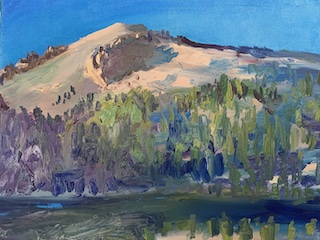
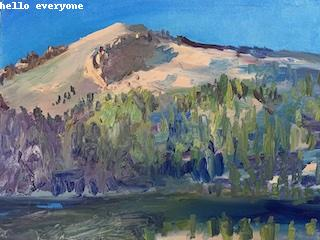
text on image

diff --git a/image.py b/image.py
@@ -6,7 +6,6 @@ from io import BytesIO
 
 
 
-
 # image (PNG, JPG) to base64 conversion (string), learn about base64 on wikipedia https://en.wikipedia.org/wiki/Base64
 def image_base64(img, img_type):
     with BytesIO() as buffer:
@@ -37,6 +36,18 @@ def image_data(path="static/Images/", img_list=None):  # path of static images i
         file = path + img_dict['file']  # file with path for local access (backend)
         # Python Image Library operations
         img_reference = Image.open(file)  # PIL
+
+        #hori_flippedImage = img_reference.transpose(Image.FLIP_LEFT_RIGHT)
+        #hori_flippedImage.show()
+        d1 = ImageDraw.Draw(img_reference)
+        if img_dict['file'] == "white-square-16.png":
+            d1.text((0, 0), "Hi!",  fill =(255, 0, 0))
+        elif img_dict['file'] == "lassen-volcano-256.jpg":
+            d1.text((0, 0), "hello everyone")
+        else:
+            d1.text((0, 0), "Hi!")
+        img_reference.save(file)
+
         img_data = img_reference.getdata()  # Reference https://www.geeksforgeeks.org/python-pil-image-getdata/
         img_dict['format'] = img_reference.format
         img_dict['mode'] = img_reference.mode
